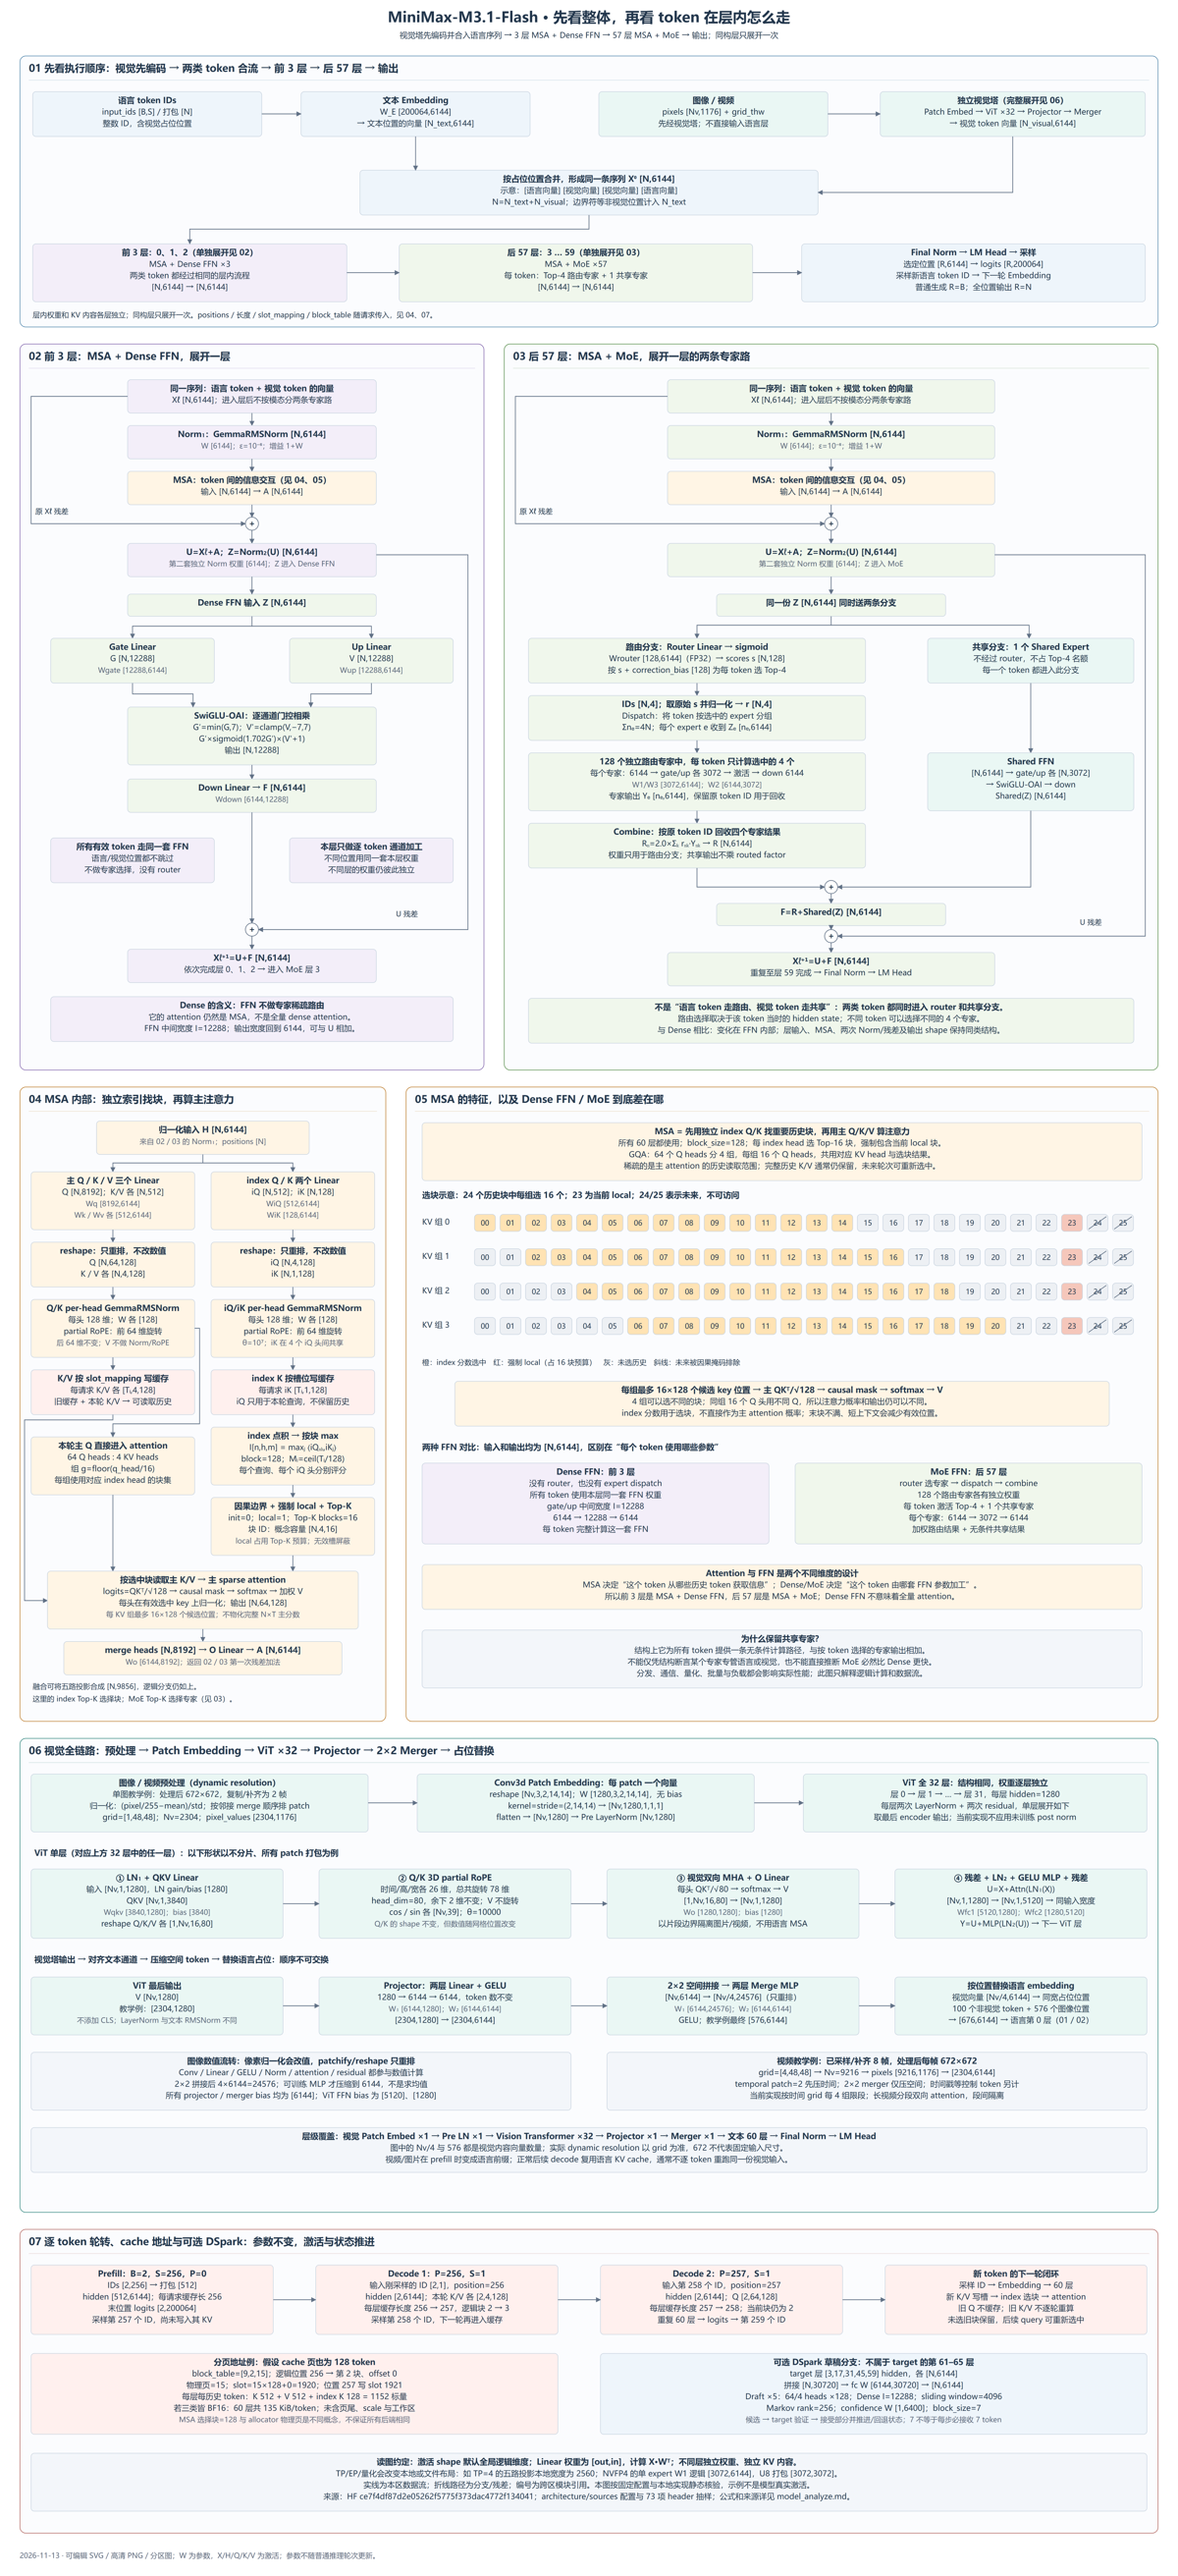
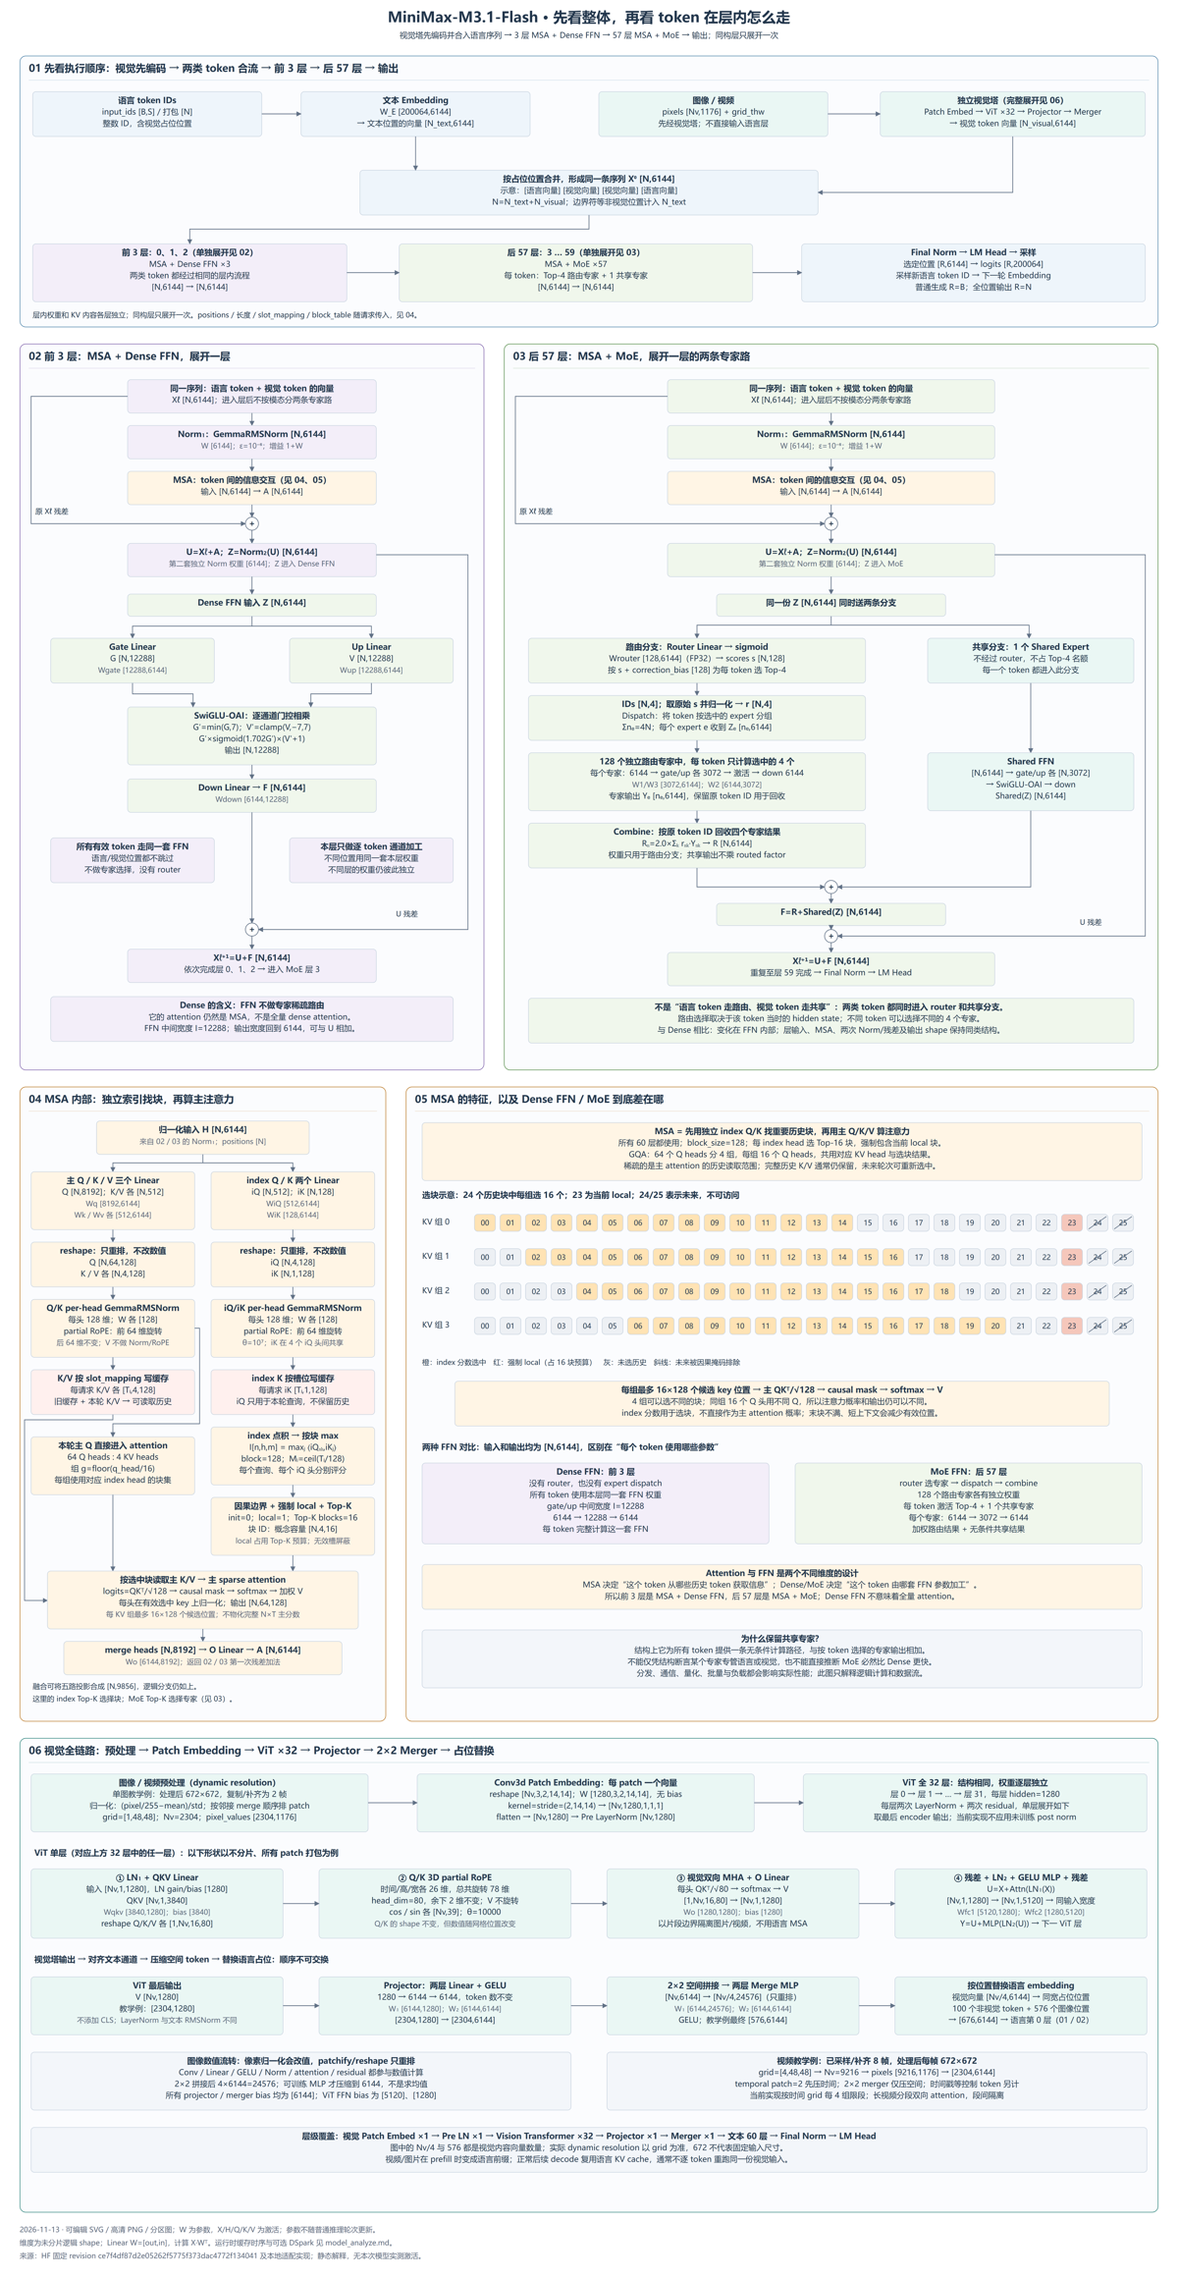
docs: focus MiniMax architecture on core model layers

diff --git a/minimax/minimax-m31-flash/architecture/draw_detailed.py b/minimax/minimax-m31-flash/architecture/draw_detailed.py
@@ -137,28 +137,16 @@ p.box(1795, 960, 1650, ["视频教学例：已采样/补齐 8 帧，处理后每
 p.box(35, 1190, 3410, ["层级覆盖：视觉 Patch Embed ×1 → Pre LN ×1 → Vision Transformer ×32 → Projector ×1 → Merger ×1 → 文本 60 层 → Final Norm → LM Head", "图中的 Nv/4 与 576 都是视觉内容向量数量；实际 dynamic resolution 以 grid 为准，672 不代表固定输入尺寸。", "视频/图片在 prefill 时变成语言前缀；正常后续 decode 复用语言 KV cache，通常不逐 token 重跑同一份视觉输入。"], 137, "#f3f6fa")
 vision = p
 
-# Runtime and optional branch, linked to the same input/output objects.
-p = Plate("07-runtime", 3480, 930, "07 逐 token 轮转、cache 地址与可选 DSpark：参数不变，激活与状态推进", "red")
-p.box(35, 110, 740, ["Prefill：B=2，S=256，P=0", "IDs [2,256] → 打包 [512]", "hidden [512,6144]；每请求缓存长 256", "末位置 logits [2,200064]", "采样第 257 个 ID，尚未写入其 KV"], 212)
-p.box(905, 110, 740, ["Decode 1：P=256，S=1", "输入刚采样的 ID [2,1]，position=256", "hidden [2,6144]；本轮 K/V 各 [2,4,128]", "每层缓存长度 256 → 257，逻辑块 2 → 3", "采样第 258 个 ID，下一轮再进入缓存"], 212)
-p.box(1775, 110, 740, ["Decode 2：P=257，S=1", "输入第 258 个 ID，position=257", "hidden [2,6144]；Q [2,64,128]", "每层缓存长度 257 → 258；当前块仍为 2", "重复 60 层 → logits → 第 259 个 ID"], 212)
-p.box(2645, 110, 800, ["新 token 的下一轮闭环", "采样 ID → Embedding → 60 层", "新 K/V 写槽 → index 选块 → attention", "旧 Q 不缓存；旧 K/V 不逐轮重算", "未选旧块保留，后续 query 可重新选中"], 212)
-for a,b in [(775,905),(1645,1775),(2515,2645)]:p.arrow([(a,216),(b,216)])
-p.box(35, 380, 1610, ["分页地址例：假设 cache 页也为 128 token", "block_table=[9,2,15]；逻辑位置 256 → 第 2 块、offset 0", "物理页=15；slot=15×128+0=1920；位置 257 写 slot 1921", "每层每历史 token：K 512 + V 512 + index K 128 = 1152 标量", "若三类皆 BF16：60 层共 135 KiB/token；未含页尾、scale 与工作区", ("MSA 选择块=128 与 allocator 物理页是不同概念，不保证所有后端相同", "weight")], 247)
-p.box(1775, 380, 1670, ["可选 DSpark 草稿分支：不属于 target 的第 61–65 层", "target 层 [3,17,31,45,59] hidden，各 [N,6144]", "拼接 [N,30720] → fc W [6144,30720] → [N,6144]", "Draft ×5：64/4 heads ×128；Dense I=12288；sliding window=4096", "Markov rank=256；confidence W [1,6400]；block_size=7", ("候选 → target 验证 → 接受部分并推进/回退状态；7 不等于每步必接收 7 token", "weight")], 247, COLORS["blue"][1])
-p.box(35, 685, 3410, ["读图约定：激活 shape 默认全局逻辑维度；Linear 权重为 [out,in]，计算 X·Wᵀ；不同层独立权重、独立 KV 内容。", "TP/EP/量化会改变本地或文件布局：如 TP=4 的五路投影本地宽度为 2560；NVFP4 的单 expert W1 逻辑 [3072,6144]，U8 打包 [3072,3072]。", "实线为本区数据流；折线路径为分支/残差；编号为跨区模块引用。本图按固定配置与本地实现静态核验，示例不是模型真实激活。", "来源：HF ce7f4df87d2e05262f5775f373dac4772f134041；architecture/sources 配置与 73 项 header 抽样；公式和来源详见 model_analyze.md。"], 177, "#f3f6fa")
-runtime = p
-
 from detailed_sections import build_sections
 
 overview, dense, moe, features = build_sections(Plate, COLORS)
-plates = [overview, dense, moe, msa, features, vision, runtime]
+plates = [overview, dense, moe, msa, features, vision]
 for p in plates:
     (OUT / f"{p.name}.svg").write_text(p.render(), encoding="utf-8")
 
 placements = [(overview,60,170),(dense,60,1050),(moe,1540,1050),
-              (msa,60,3320),(features,1240,3320),(vision,60,5310),(runtime,60,6810)]
-W,H=3600,7870
+              (msa,60,3320),(features,1240,3320),(vision,60,5310)]
+W,H=3600,6960
 full=[f'<svg xmlns="http://www.w3.org/2000/svg" width="{W}" height="{H}" viewBox="0 0 {W} {H}" role="img">',
       '<title>MiniMax-M3.1-Flash：整体顺序、Dense 与 MoE 层、MSA 及视觉塔</title>',
       f'<rect width="{W}" height="{H}" fill="white"/>',STYLE,
@@ -166,7 +154,9 @@ full=[f'<svg xmlns="http://www.w3.org/2000/svg" width="{W}" height="{H}" viewBox
       '<text x="1800" y="116" class="body" text-anchor="middle">视觉塔先编码并合入语言序列 → 3 层 MSA + Dense FFN → 57 层 MSA + MoE → 输出；同构层只展开一次</text>']
 for p,x,y in placements:
     full.append(f'<g transform="translate({x},{y})">'+"\n".join(p.items)+"</g>")
-full.append('<text x="60" y="7815" class="note">2026-11-13 · 可编辑 SVG / 高清 PNG / 分区图；W 为参数，X/H/Q/K/V 为激活；参数不随普通推理轮次更新。</text></svg>')
+full.append('<text x="60" y="6820" class="note">2026-11-13 · 可编辑 SVG / 高清 PNG / 分区图；W 为参数，X/H/Q/K/V 为激活；参数不随普通推理轮次更新。</text>'
+            '<text x="60" y="6860" class="note">维度为未分片逻辑 shape；Linear W=[out,in]，计算 X·Wᵀ。运行时缓存时序与可选 DSpark 见 model_analyze.md。</text>'
+            '<text x="60" y="6900" class="note">来源：HF 固定 revision ce7f4df87d2e05262f5775f373dac4772f134041 及本地适配实现；静态解释，无本次模型实测激活。</text></svg>')
 (ROOT / "minimax-m31-detailed-architecture.svg").write_text("\n".join(full),encoding="utf-8")
 (OUT / "layout.json").write_text(json.dumps({"width":W,"height":H,"plates":[{"name":p.name,"x":x,"y":y,"width":p.w,"height":p.h} for p,x,y in placements]},indent=2)+"\n",encoding="utf-8")
 print(f"Generated full SVG and {len(plates)} detail plates in {ROOT}")

diff --git a/minimax/minimax-m31-flash/architecture/detailed_sections.py b/minimax/minimax-m31-flash/architecture/detailed_sections.py
@@ -16,7 +16,7 @@ def build_sections(Plate, colors):
     p.box(2390, 575, 1050, ["Final Norm → LM Head → 采样", "选定位置 [R,6144] → logits [R,200064]", "采样新语言 token ID → 下一轮 Embedding", "普通生成 R=B；全位置输出 R=N"], 177)
     p.arrow([(1740, 487), (1740, 530), (520, 530), (520, 575)])
     p.arrow([(1000, 663), (1160, 663)]); p.arrow([(2240, 663), (2390, 663)])
-    p.text(40, 800, "层内权重和 KV 内容各层独立；同构层只展开一次。positions / 长度 / slot_mapping / block_table 随请求传入，见 04、07。", "small")
+    p.text(40, 800, "层内权重和 KV 内容各层独立；同构层只展开一次。positions / 长度 / slot_mapping / block_table 随请求传入，见 04。", "small")
     overview = p
 
     def layer_prefix(p, center, left, width, family):

diff --git a/minimax/minimax-m31-flash/README.md b/minimax/minimax-m31-flash/README.md
@@ -4,7 +4,7 @@
 
 ## 入口
 
-- [详细架构图：完整层级、入参及张量流转](architecture/minimax-m31-detailed-architecture.png) · [可编辑 SVG](architecture/minimax-m31-detailed-architecture.svg) · [分区放大阅读](architecture/detailed/README.md)。同构层只展开一次，包含 MSA、Dense/MoE、ViT、视觉融合及 decode 缓存更新。
+- [详细架构图：完整层级、入参及张量流转](architecture/minimax-m31-detailed-architecture.png) · [可编辑 SVG](architecture/minimax-m31-detailed-architecture.svg) · [分区放大阅读](architecture/detailed/README.md)。同构层只展开一次，包含 MSA、Dense/MoE、ViT、视觉融合及 MSA 选块特征。
 - [模型结构说明与完整参数表](architecture/README.md)：主干、MSA/indexer、残差、专家及视觉融合。
 - [逐步张量 shape 与数值流转详解](model_analyze.md)：输入接口、QKV/indexer、MoE 分发回收、prefill/decode 算例、视觉 patch、KV 分页、TP/EP 与量化存储；附固定版本配置和官方权重 header 抽样。
 - [高清模型图 4800×5560](architecture/minimax-m31-full-architecture.png) · [可编辑 SVG](architecture/minimax-m31-full-architecture.svg)。
